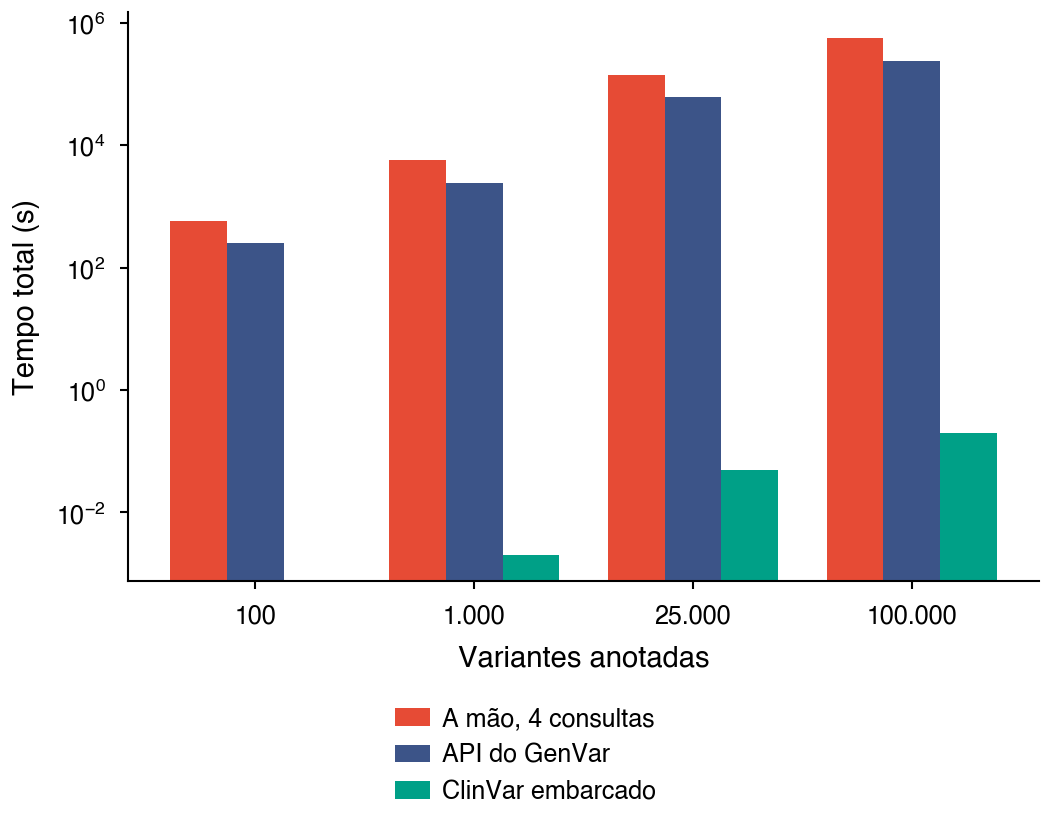
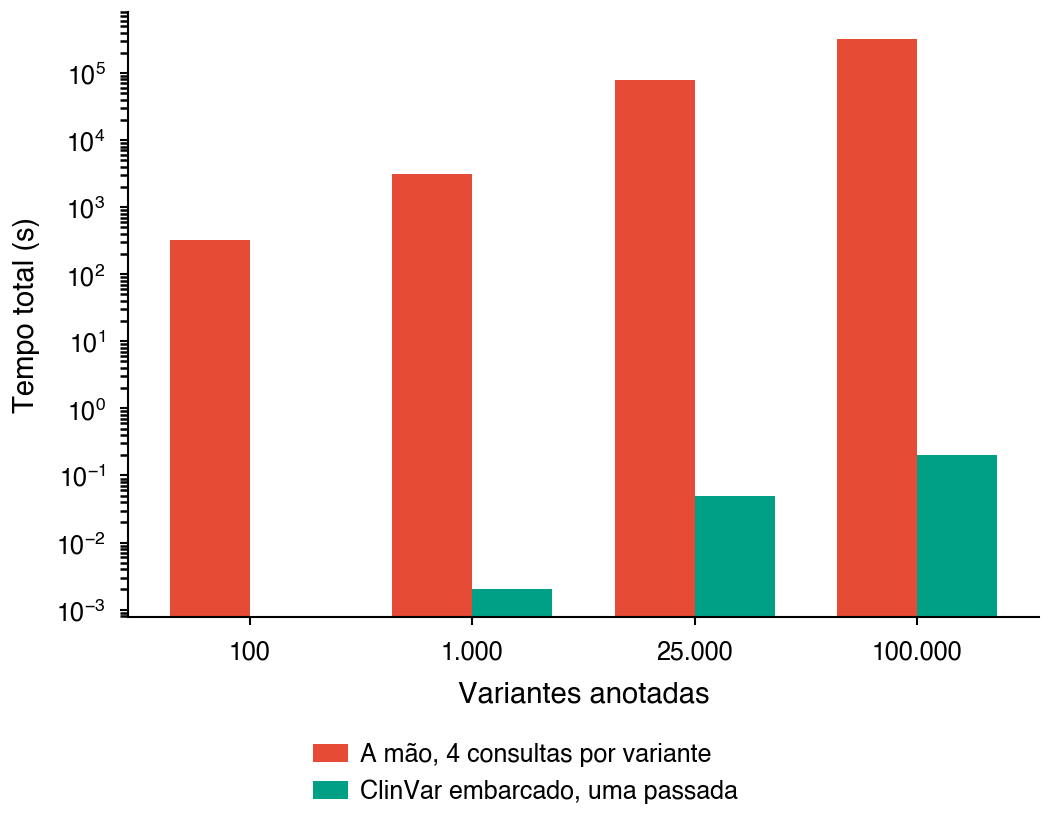
Isolate the test suite from Redis; record the heap ceiling with each measurement
test_detail_degrades_when_constraint_unavailable passed or failed depending on
what happened to be in the machine's Redis: the route returned the cached record
before reaching the call the test had replaced. conftest now points at an
unreachable Redis, so cache_get always misses and cache_set never writes.
Verified both ways, with the key present and absent.

The batch measurements were taken at a 12 GB heap and nothing said so. A browser
tab has nothing like that, and at Node's default the individual path dies before
finishing 50 files. The ceiling now goes in every CSV row and in ambiente.json,
and the reproduction commands in benchmark-v2/README.md set it.

Drops the API column from the gain projection: nobody annotates 100k variants
one rsID at a time through it, and the constant ratio is now stated once instead
of repeated per row.

Claude-Session: https://claude.ai/code/session_01Ra7BrnZtoJDQt9pKKJ7723

diff --git a/benchmark-v2/gerar_relatorio.py b/benchmark-v2/gerar_relatorio.py
@@ -84,9 +84,14 @@ mão, para não divergir dos dados ao lado.
 |---|---|
 | Node | {amb.get('node', '—')} |
 | Plataforma | {amb.get('plataforma', '—')} {amb.get('arch', '')} |
-| Repetições por medida | {amb.get('repeticoes', '—')} |
+| Repetições por medida, suíte de funções | {amb.get('repeticoes', '—')} |
+| Teto de heap, suíte de funções | {amb.get('teto_heap_mb', '—')} MB |
 | Anotação clínica ativa | {'sim' if amb.get('anotacao_ativa') else 'NÃO'} |
 | Medições registradas | {len(funcoes)} |
+
+Cada suíte roda com os seus parâmetros, e eles não são os mesmos: a tabela acima
+vale para a suíte de funções. As repetições e o teto de heap das demais aparecem
+na seção de cada uma, tirados do próprio CSV.
 
 A anotação ativa não é detalhe de rodapé: com o índice do ClinVar indisponível,
 o módulo degrada para camada vazia, e todas as etapas seguintes medem o caminho
@@ -225,6 +230,17 @@ if lote:
         ))
     w(tabela(["Cenário", "Arquivos", "Individual", "Lote", "Retido individual",
               "Retido lote", "Ganho de memória"], linhas))
+    tetos = sorted({l.get("teto_heap_mb", "") for l in lote if l.get("teto_heap_mb")})
+    reps = sorted({l.get("repeticoes", "") for l in lote if l.get("repeticoes")})
+    w(f"""
+Repetições por ponto: {', '.join(reps) or '—'}. Teto de heap: {', '.join(tetos) or '—'} MB.
+
+**O teto de heap muda o resultado e por isso viaja com ele.** Com o padrão do
+Node, perto de 2 GB, o caminho individual morre antes de terminar a coorte de
+50; as linhas acima de 25 arquivos vêm de uma rodada com teto alto, onde o que
+se mede é o algoritmo e não o limite da máquina. Um navegador está mais perto do
+teto padrão, e é lá que a aba morre.
+""")
 w("""
 Dois cenários, e a distinção decide o resultado. Numa coorte em que todos os
 arquivos cobrem os mesmos cromossomos, o índice do ClinVar é montado uma vez nos
@@ -246,6 +262,10 @@ if cache:
                num(l["quente_mediana_ms"], 0) + " ms",
                num(l["ganho"], 0) + "x") for l in cache]
     w(tabela(["Tipo", "Alvo", "Sem cache", "Com cache", "Ganho"], linhas))
+    nf = sorted({l.get("n_frio", "") for l in cache if l.get("n_frio")})
+    nq = sorted({l.get("n_quente", "") for l in cache if l.get("n_quente")})
+    w(f"\nChamadas por alvo: {', '.join(nf) or '—'} sem cache, "
+      f"{', '.join(nq) or '—'} com cache.\n")
     w("""
 Sem cache, a resposta é montada encadeando Ensembl, gnomAD, ClinVar e MyVariant,
 com as dependências entre elas respeitadas. Com cache, é uma leitura do Redis.
@@ -258,9 +278,8 @@ para todos os usuários da aplicação de uma vez.
 if ganho:
     w("\n## Ganho de tempo sobre o fluxo manual\n")
     linhas = [(num(l["variantes"], 0), num(l["manual_horas"], 1) + " h",
-               num(l["api_genvar_horas"], 1) + " h",
                num(l.get("embarcado_segundos", 0), 1) + " s") for l in ganho]
-    w(tabela(["Variantes", "A mão", "API do GenVar", "ClinVar embarcado"], linhas))
+    w(tabela(["Variantes", "A mão", "ClinVar embarcado"], linhas))
     w(secao_figura("fig5_ganho.png",
                    "Figura 5. Tempo total para anotar N variantes por cada caminho, em "
                    "escala logarítmica."))
@@ -272,6 +291,12 @@ variantes a mão levaria dias e bloquearia o acesso do projeto às fontes.
 O que a projeção não inclui, e que só aumentaria a diferença: tempo humano de
 navegação, erro de transcrição, e o retrabalho de refazer tudo quando alguém
 pergunta de qual arquivo aquela planilha saiu.
+
+A API do GenVar não entra nesta projeção de propósito. Ela existe para a
+consulta de **uma** variante, e o custo dela por variante está na tabela acima;
+ninguém anota cem mil variantes chamando-a um rsID de cada vez. A anotação em
+massa é o que o ClinVar embarcado faz, numa passada e sem rede, e é essa a
+comparação com o fluxo manual.
 """)
 
 w("\n## Memória\n")

diff --git a/benchmark-v2/ganho.py b/benchmark-v2/ganho.py
@@ -159,17 +159,21 @@ async def main():
     console.print(t)
 
     # Projecao para as escalas do corpus, com a base declarada.
+    #
+    # A comparacao que interessa e MANUAL contra EMBARCADO, e nao manual contra
+    # a API. Ninguem anota cem mil variantes chamando a API um rsID de cada vez:
+    # a API existe para a consulta de UMA variante, e a anotacao em massa e o
+    # que o ClinVar embarcado faz, numa passada, sem rede. Manter a coluna da
+    # API na projecao convida a pergunta errada, entao ela sai daqui e fica
+    # apenas na tabela por variante, que e onde ela responde alguma coisa.
     proj = []
     for n in (100, 1_000, 25_000, 100_000):
         p = {
             "variantes": n,
             "manual_horas": round(med_manual * n / 1000 / 3600, 2),
-            "api_genvar_horas": round(med_plat * n / 1000 / 3600, 2),
         }
         if local:
             p["embarcado_segundos"] = round(local["ms_por_variante"] * n / 1000, 3)
-            p["ganho_sobre_manual"] = round(
-                (med_manual * n) / (local["ms_por_variante"] * n), 0)
         proj.append(p)
 
     with (saida / "ganho_projecao.csv").open("w", newline="", encoding="utf-8") as fh:
@@ -178,17 +182,23 @@ async def main():
         w.writerows(proj)
 
     t2 = Table(title="Projecao (extrapolada da mediana medida, nao medida nesta escala)")
-    for c in ("Variantes", "A mao", "API do GenVar", "ClinVar embarcado"):
+    for c in ("Variantes", "A mao", "ClinVar embarcado"):
         t2.add_column(c, justify="right" if c != "Variantes" else "left")
     for p in proj:
         t2.add_row(f'{p["variantes"]:,}'.replace(",", "."),
                    f'{p["manual_horas"]:.1f} h',
-                   f'{p["api_genvar_horas"]:.1f} h',
                    f'{p.get("embarcado_segundos", 0):.1f} s' if local else "—")
     console.print(t2)
-    console.print("  [dim]As duas ultimas colunas nao foram medidas nessas escalas: sao a "
-                  "mediana por variante multiplicada. Medir 100 mil a mao levaria dias e "
-                  "bloquearia o acesso do projeto as fontes.[/dim]")
+    # A razao entre as duas colunas e CONSTANTE por construcao, porque as duas
+    # escalam linearmente com n. Repeti-la em cada linha da a impressao de um
+    # resultado por escala onde ha um numero so.
+    if local:
+        razao = med_manual / local["ms_por_variante"]
+        console.print(f"  [dim]Razao constante de {razao:,.0f}x".replace(",", ".")
+                      + " por variante: as duas colunas escalam linearmente com n.[/dim]")
+    console.print("  [dim]Nenhuma das duas foi medida nessas escalas: sao a mediana por "
+                  "variante multiplicada. Medir 100 mil a mao levaria dias e bloquearia o "
+                  "acesso do projeto as fontes.[/dim]")
 
     (saida / "ganho_resumo.json").write_text(json.dumps({
         "amostra": len(alvos),

diff --git a/backend/tests/conftest.py b/backend/tests/conftest.py
@@ -22,3 +22,18 @@ def pytest_collection_modifyitems(config, items):
 # do TestClient e estourariam o teto juntos, fazendo um teste de doenca reprovar
 # por 429 e apontar para o lugar errado. Quem testa o limitador liga o dele.
 os.environ.setdefault("RATE_LIMIT_PER_MINUTE", "0")
+
+# O CACHE tambem fica desligado, e nao por comodidade: ligado, a suite passa ou
+# reprova conforme o que houver no Redis da maquina, que e estado de fora dela.
+#
+# Medido: `test_detail_degrades_when_constraint_unavailable` substitui a chamada
+# a gnomAD por uma que nao devolve nada e exige que todo gene saia marcado como
+# "sem constraint". Com o Redis populado por outra execucao, a rota devolve o
+# registro cacheado antes de chegar na chamada substituida, e o teste reprova
+# apontando para um defeito que nao existe. Com o Redis vazio, passa. Um teste
+# cujo resultado depende de o Redis estar vazio nao esta testando o codigo.
+#
+# Apontar para um banco inexistente e o jeito mais direto: `get_redis` ja trata
+# falha de conexao devolvendo None, e nesse caminho `cache_get` sempre erra e
+# `cache_set` nao grava, que e exatamente o comportamento desejado na suite.
+os.environ.setdefault("REDIS_URL", "redis://127.0.0.1:1")

diff --git a/benchmark-v2/figuras.py b/benchmark-v2/figuras.py
@@ -327,13 +327,15 @@ def fig_ganho(resultados, figuras, dpi, formato):
     fig, ax = plt.subplots(figsize=(COLUNA_SIMPLES, 70 * MM), layout="constrained")
     x = np.arange(len(d))
     larg = 0.26
-    seg_manual = d["manual_horas"] * 3600
-    seg_api = d["api_genvar_horas"] * 3600
-    ax.bar(x - larg, seg_manual, larg, color=NPG[1], label="A mão, 4 consultas")
-    ax.bar(x, seg_api, larg, color=NPG[0], label="API do GenVar")
+    # Duas barras, e nao tres. A da API saiu porque ninguem anota cem mil
+    # variantes chamando a API uma de cada vez: a comparacao real e o fluxo
+    # manual contra a passada local.
+    larg = 0.36
+    ax.bar(x - larg / 2, d["manual_horas"] * 3600, larg, color=NPG[1],
+           label="A mão, 4 consultas por variante")
     if "embarcado_segundos" in d:
-        ax.bar(x + larg, d["embarcado_segundos"], larg, color=NPG[2],
-               label="ClinVar embarcado")
+        ax.bar(x + larg / 2, d["embarcado_segundos"], larg, color=NPG[2],
+               label="ClinVar embarcado, uma passada")
     ax.set_yscale("log")
     ax.set_xticks(x)
     ax.set_xticklabels([f'{int(v):,}'.replace(",", ".") for v in d["variantes"]])

diff --git a/benchmark-v2/RELATORIO.md b/benchmark-v2/RELATORIO.md
@@ -8,9 +8,14 @@ mão, para não divergir dos dados ao lado.
 |---|---|
 | Node | v25.8.2 |
 | Plataforma | darwin arm64 |
-| Repetições por medida | 2 |
+| Repetições por medida, suíte de funções | 2 |
+| Teto de heap, suíte de funções | — MB |
 | Anotação clínica ativa | sim |
 | Medições registradas | 352 |
+
+Cada suíte roda com os seus parâmetros, e eles não são os mesmos: a tabela acima
+vale para a suíte de funções. As repetições e o teto de heap das demais aparecem
+na seção de cada uma, tirados do próprio CSV.
 
 A anotação ativa não é detalhe de rodapé: com o índice do ClinVar indisponível,
 o módulo degrada para camada vazia, e todas as etapas seguintes medem o caminho
@@ -147,18 +152,27 @@ meses diferentes não são comparáveis.
 
 | Cenário | Arquivos | Individual | Lote | Retido individual | Retido lote | Ganho de memória |
 |---|---|---|---|---|---|---|
-| exoma completo | 1 | 0,15 s | 0,19 s | 18 MB | 1 MB | 17,9x |
-| exoma completo | 5 | 0,58 s | 0,65 s | 88 MB | 3 MB | 32,8x |
-| exoma completo | 10 | 1,07 s | 1,24 s | 178 MB | 5 MB | 33,3x |
-| exoma completo | 25 | 3,89 s | 3,40 s | 444 MB | 13 MB | 33,2x |
-| exoma completo | 50 | 8,78 s | 8,20 s | 882 MB | 27 MB | 33,0x |
-| exoma completo | 100 | 28,89 s | 19,28 s | 1.766 MB | 53 MB | 33,5x |
-| painel dirigido | 1 | 0,04 s | 0,07 s | 2 MB | 0 MB | 2,5x |
-| painel dirigido | 5 | 0,22 s | 0,24 s | 12 MB | 1 MB | 8,6x |
-| painel dirigido | 10 | 0,64 s | 0,43 s | 24 MB | 3 MB | 8,5x |
-| painel dirigido | 25 | 0,90 s | 0,72 s | 60 MB | 7 MB | 8,7x |
-| painel dirigido | 50 | 1,32 s | 1,08 s | 120 MB | 14 MB | 8,7x |
-| painel dirigido | 100 | 1,96 s | 2,13 s | 241 MB | 28 MB | 8,7x |
+| exoma completo | 1 | 0,39 s | 0,24 s | 18 MB | 1 MB | 17,9x |
+| exoma completo | 5 | 0,74 s | 0,83 s | 88 MB | 3 MB | 32,4x |
+| exoma completo | 10 | 1,50 s | 2,21 s | 177 MB | 5 MB | 33,7x |
+| exoma completo | 25 | 8,32 s | 5,16 s | 444 MB | 13 MB | 34,2x |
+| exoma completo | 50 | 13,98 s | 8,95 s | 883 MB | 27 MB | 33,2x |
+| exoma completo | 100 | 102,01 s | 56,33 s | 1.766 MB | 54 MB | 33,0x |
+| painel dirigido | 1 | 0,07 s | 0,11 s | 2 MB | 0 MB | 2,4x |
+| painel dirigido | 5 | 0,38 s | 0,45 s | 12 MB | 1 MB | 8,8x |
+| painel dirigido | 10 | 1,00 s | 0,90 s | 24 MB | 3 MB | 8,6x |
+| painel dirigido | 25 | 1,42 s | 1,09 s | 60 MB | 7 MB | 8,7x |
+| painel dirigido | 50 | 1,33 s | 1,97 s | 120 MB | 14 MB | 8,7x |
+| painel dirigido | 100 | 3,17 s | 2,80 s | 241 MB | 28 MB | 8,7x |
+
+
+Repetições por ponto: 3. Teto de heap: 12480 MB.
+
+**O teto de heap muda o resultado e por isso viaja com ele.** Com o padrão do
+Node, perto de 2 GB, o caminho individual morre antes de terminar a coorte de
+50; as linhas acima de 25 arquivos vêm de uma rodada com teto alto, onde o que
+se mede é o algoritmo e não o limite da máquina. Um navegador está mais perto do
+teto padrão, e é lá que a aba morre.
 
 
 Dois cenários, e a distinção decide o resultado. Numa coorte em que todos os
@@ -187,6 +201,9 @@ constante no lote, porque cada arquivo é lido, anotado, resumido e descartado.
 | variante | rs1799853 | 2,65 s | 2 ms | 1.083x |
 
 
+Chamadas por alvo: 4 sem cache, 10 com cache.
+
+
 Sem cache, a resposta é montada encadeando Ensembl, gnomAD, ClinVar e MyVariant,
 com as dependências entre elas respeitadas. Com cache, é uma leitura do Redis.
 O intervalo entre as chamadas a frio não é cortesia: o Ensembl aplica uso justo
@@ -196,12 +213,12 @@ para todos os usuários da aplicação de uma vez.
 
 ## Ganho de tempo sobre o fluxo manual
 
-| Variantes | A mão | API do GenVar | ClinVar embarcado |
-|---|---|---|---|
-| 100 | 0,2 h | 0,1 h | 0,0 s |
-| 1.000 | 1,6 h | 0,7 h | 0,0 s |
-| 25.000 | 39,3 h | 16,8 h | 0,1 s |
-| 100.000 | 157,2 h | 67,2 h | 0,2 s |
+| Variantes | A mão | ClinVar embarcado |
+|---|---|---|
+| 100 | 0,1 h | 0,0 s |
+| 1.000 | 0,9 h | 0,0 s |
+| 25.000 | 22,1 h | 0,1 s |
+| 100.000 | 88,4 h | 0,2 s |
 
 
 ![Figura 5. Tempo total para anotar N variantes por cada caminho, em escala logarítmica.](figuras/fig5_ganho.png)
@@ -217,6 +234,12 @@ variantes a mão levaria dias e bloquearia o acesso do projeto às fontes.
 O que a projeção não inclui, e que só aumentaria a diferença: tempo humano de
 navegação, erro de transcrição, e o retrabalho de refazer tudo quando alguém
 pergunta de qual arquivo aquela planilha saiu.
+
+A API do GenVar não entra nesta projeção de propósito. Ela existe para a
+consulta de **uma** variante, e o custo dela por variante está na tabela acima;
+ninguém anota cem mil variantes chamando-a um rsID de cada vez. A anotação em
+massa é o que o ClinVar embarcado faz, numa passada e sem rede, e é essa a
+comparação com o fluxo manual.
 
 
 ## Memória

diff --git a/README.md b/README.md
@@ -1174,6 +1174,8 @@ pytest
 
 Os unitários rodam em cerca de 1,5 s. A marca de integração é aplicada por caminho de arquivo em `tests/conftest.py`, então vale para `test_apis.py` inteiro e continua valendo para o que entrar nele depois.
 
+O `conftest.py` também desliga **o limitador de taxa e o cache**, e as duas coisas por defeito medido, não por comodidade. Todos os testes saem do mesmo IP do `TestClient` e estourariam o teto de requisições juntos, fazendo um teste de doença reprovar por 429 e apontar para o lugar errado. E com o Redis populado por outra execução, `test_detail_degrades_when_constraint_unavailable` reprovava: a rota devolvia o registro cacheado antes de chegar na chamada que o teste havia substituído. Um teste cujo resultado depende de o Redis estar vazio não está testando o código.
+
 Cobertura por arquivo:
 
 | Arquivo | Cobre |
@@ -1232,7 +1234,11 @@ Mais quatro arquivos reais, de fontes públicas, nunca versionados: o benchmark 
 
 **Reprodutibilidade.** Seis critérios binários por arquivo: TSV, CSV e VCF anotado byte a byte idênticos entre duas execuções; métricas invariantes à ordem das linhas da entrada, verificada com embaralhamento determinístico; e o artefato carregando o SHA-256 da entrada e a versão da compilação do ClinVar. Nove de nove arquivos satisfazem os seis. É a metade da promessa que tempo nenhum mede: um fluxo com oito portais abertos e cópia e cola não tem como sustentá-la.
 
-**Lote contra individual.** Cem arquivos de 25.000 variantes: o caminho individual leva 28,9 s e retém 1.766 MB; o lote leva 19,3 s e retém 53 MB. A memória retida do individual cresce linearmente com a coorte e a do lote não, porque cada arquivo é lido, anotado, resumido e descartado. O ganho de tempo, porém, **depende do cenário**: numa coorte em que todos os arquivos cobrem os mesmos cromossomos, o índice do ClinVar é montado uma vez nos dois caminhos e o lote não acelera nada; numa coorte de painéis dirigidos, cada arquivo pagaria a própria montagem, e a união de cromossomos do lote vira ganho. Os dois cenários estão medidos.
+**Lote contra individual.** Cem arquivos de 25.000 variantes, 2,5 milhões de variantes ao todo: o caminho individual retém **1.766 MB** ao fim e o lote retém **54 MB**, um fator de 33. A memória retida do individual cresce linearmente com a coorte e a do lote não, porque cada arquivo é lido, anotado, resumido e descartado. É esse o número que decide se roda no navegador.
+
+O tempo é a medida frágil das duas e vem com ressalva: o lote termina a mesma coorte entre 1,5 e 1,8 vezes mais rápido, mas o valor absoluto oscilou entre 19 s e 56 s em rodadas diferentes conforme a carga da máquina, enquanto a memória repetiu 1.766 e 54 MB em todas. O ganho de tempo também **depende do cenário**: numa coorte em que todos os arquivos cobrem os mesmos cromossomos, o índice do ClinVar é montado uma vez nos dois caminhos; numa coorte de painéis dirigidos, cada arquivo pagaria a própria montagem, e a união de cromossomos do lote vira ganho. Os dois cenários estão medidos.
+
+As linhas acima de 25 arquivos exigem heap maior que o padrão do Node: com os 2 GB de fábrica, o caminho individual morre antes de terminar a coorte de 50. O teto vigente vai na coluna `teto_heap_mb` de cada linha do CSV, porque é ele que separa "medindo o algoritmo" de "medindo o limite da máquina", e um navegador está bem mais perto do segundo.
 
 **Cache.** Busca por gene: 4,92 s sem cache contra 5 ms com, fator 1.036. Busca por variante: 2,52 s contra 2 ms, fator 1.174. Sem cache a resposta é montada encadeando Ensembl, gnomAD, ClinVar e MyVariant; com cache é uma leitura do Redis.
 

diff --git a/benchmark-v2/README.md b/benchmark-v2/README.md
@@ -23,9 +23,10 @@ curl -L -o giab-hg002-grch38.vcf.gz https://ftp-trace.ncbi.nlm.nih.gov/Reference
 
 # 3. as suítes locais, a partir de frontend/ (o vite-node resolve os imports sem extensão)
 cd frontend
-NODE_OPTIONS=--expose-gc npx vite-node ../benchmark-v2/executar.mjs -- --repeticoes 3
-NODE_OPTIONS=--expose-gc npx vite-node ../benchmark-v2/reprodutibilidade.mjs
-NODE_OPTIONS=--expose-gc npx vite-node ../benchmark-v2/lote.mjs -- --coortes 1,5,10,25,50
+export NODE_OPTIONS="--expose-gc --max-old-space-size=12288"
+npx vite-node ../benchmark-v2/executar.mjs -- --repeticoes 3
+npx vite-node ../benchmark-v2/reprodutibilidade.mjs
+npx vite-node ../benchmark-v2/lote.mjs -- --coortes 1,5,10,25,50,100
 
 # 4. as suítes de rede (backend e Redis no ar)
 python3 benchmark-v2/cache.py
@@ -38,6 +39,19 @@ python3 benchmark-v2/figuras.py
 `--expose-gc` não é opcional nas suítes que reportam memória: sem ele a medida
 de memória retida não força coleta antes de ler, e o número passa a descrever o
 atraso do coletor em vez do que o programa segurou.
+
+**`--max-old-space-size=12288` também não é decoração, e o que ele muda está
+declarado em toda linha do CSV, na coluna `teto_heap_mb`.** Com o teto padrão do
+Node, perto de 2 GB, o caminho individual morre por falta de memória antes de
+terminar a coorte de 50, e a rodada não chega aos 100. Com 12 GB ela chega, e é
+dessa condição que vêm as linhas de 50 e 100 arquivos.
+
+Os dois números respondem perguntas diferentes e não devem ser lidos juntos. Com
+teto alto, o que se mede é o **algoritmo**: quanto cada caminho gasta quando a
+memória não é a restrição. Com o teto padrão, o que se mede é o **limite
+prático**, e um navegador está mais perto dele do que dos 12 GB: a aba morre, e
+onde ela morre é o resultado. As duas condições estão registradas, e é por isso
+que o teto viaja com o dado em vez de ficar no comando.
 
 ## O corpus
 
